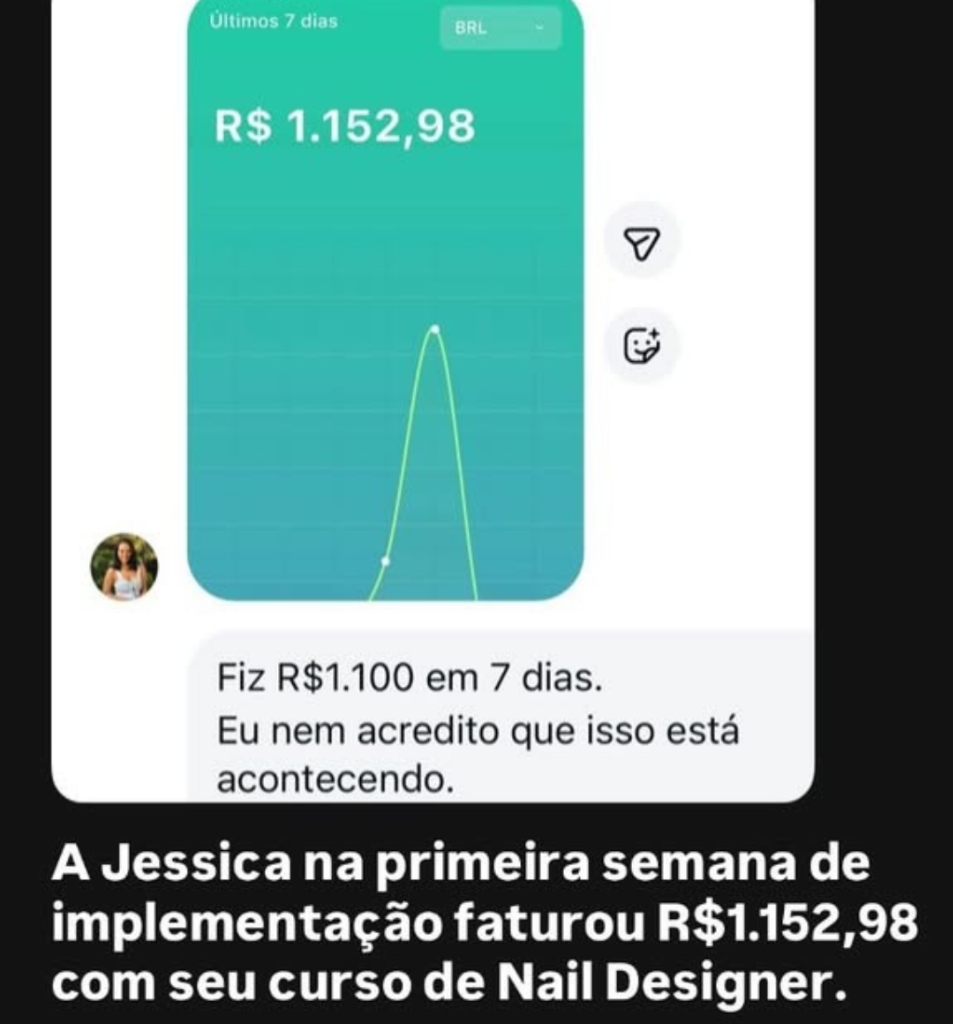
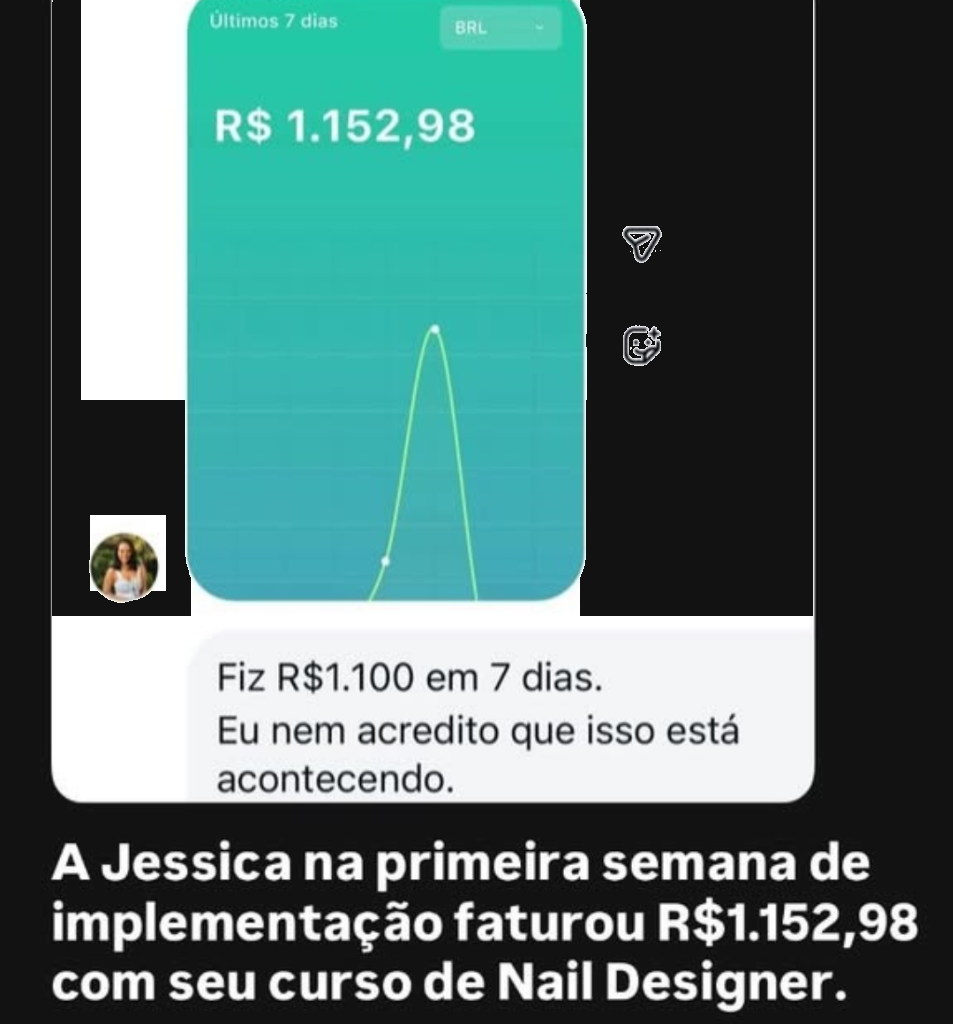
Aumenta tamanho das imagens das provas sociais e remove espaço branco da quarta imagem

Changed region(s): [[0.6086, 0.0, 0.852, 0.625], [0.0304, 0.0, 0.213, 0.625]]

diff --git a/index.html b/index.html
@@ -526,7 +526,7 @@ Como criar a área de membros estilo Netflix gratuitamente para entregar o curso
 <span>
 Monetização						</span></h3><p class="elementor-icon-box-description">
 Como criar paginas de vendas e formas de pagamento para começar a vender seu curso</p></div></div></div></div></div></div></div></div><div class="elementor-element elementor-element-be2e2cd e-flex e-con-boxed e-con e-parent" data-id="be2e2cd" data-element_type="container" data-e-type="container" data-settings="{" background_background":"classic"}"=""><div class="e-con-inner"><div class="elementor-element elementor-element-c553509 e-con-full e-flex e-con e-child" data-id="c553509" data-element_type="container" data-e-type="container"><div class="elementor-element elementor-element-b6cfc8b elementor-widget__width-initial elementor-widget elementor-widget-heading" data-id="b6cfc8b" data-element_type="widget" data-e-type="widget" data-widget_type="heading.default"><h2 class="elementor-heading-title elementor-size-default"><span class="g1">Agora, olha os FEEDBACKS</span> de alunos com o Método Curso Online com IA:</h2></div><div class="elementor-element elementor-element-8749936 e-con-full e-flex e-con e-child" data-id="8749936" data-element_type="container" data-e-type="container"><div class="provas-sociais-grid-container" style="width: 100%; display: flex; justify-content: center; padding: 10px 0 25px 0;">
-  <div class="provas-sociais-grid" style="display: grid; grid-template-columns: repeat(2, 1fr); gap: 20px; width: 100%; max-width: 860px; margin: 0 auto; padding: 0 16px; box-sizing: border-box;">
+  <div class="provas-sociais-grid" style="display: grid; grid-template-columns: repeat(2, 1fr); gap: 24px; width: 100%; max-width: 1050px; margin: 0 auto; padding: 0 16px; box-sizing: border-box;">
     <div style="border-radius: 16px; overflow: hidden; box-shadow: 0 10px 25px rgba(0,0,0,0.35); border: 1px solid rgba(255,255,255,0.08); background: #000;">
       <img src="images/prova-social-1.jpg" alt="Aluno Guilherme faturou 138k com Kiwify" style="width: 100%; height: auto; display: block; border-radius: 16px;">
     </div>
